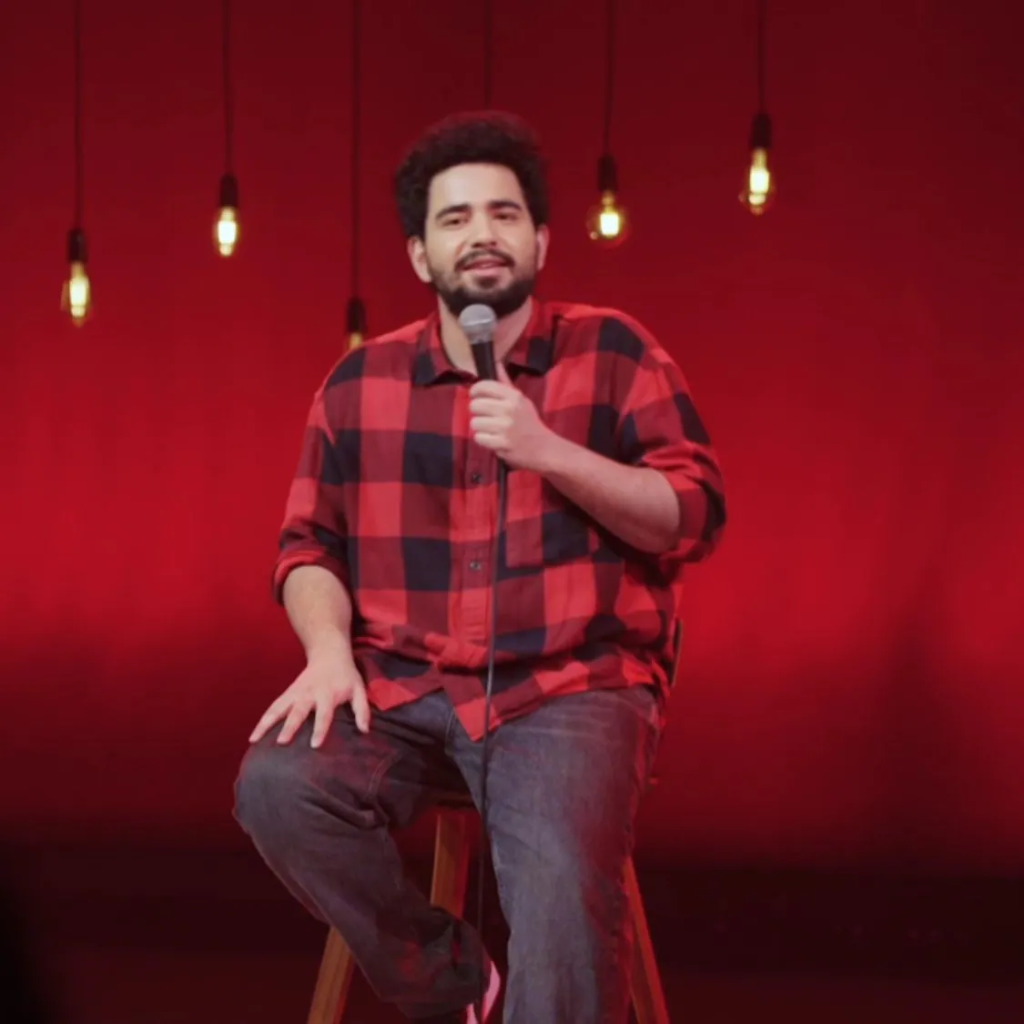
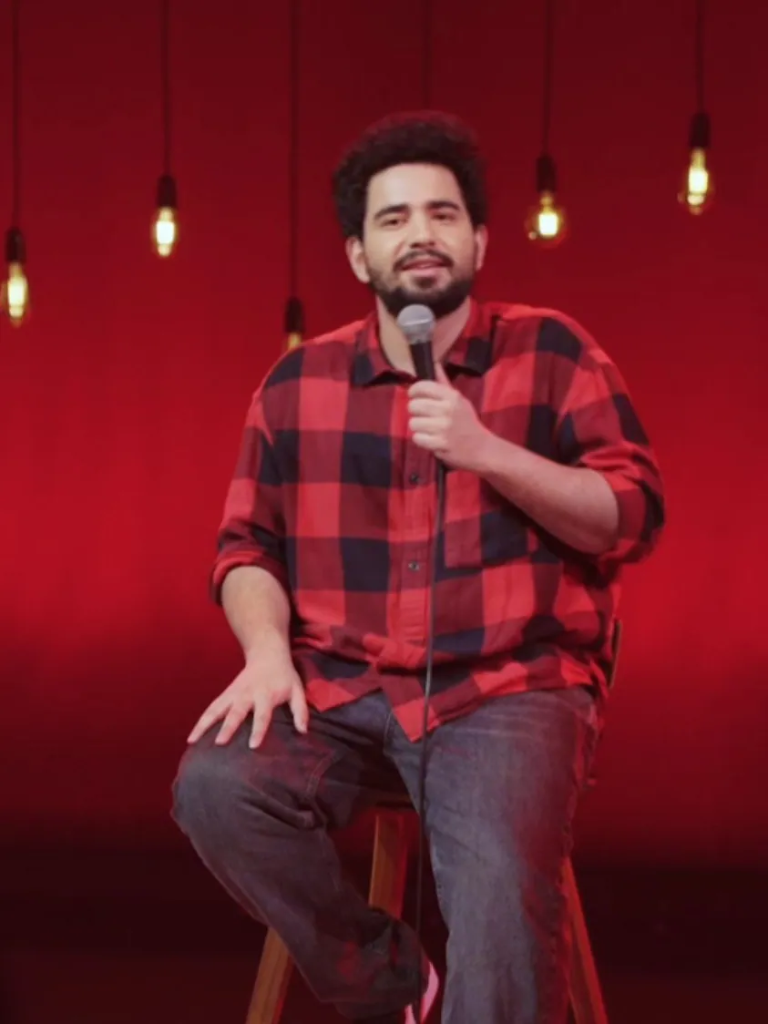
Replace Samay Raina card image with official stage portrait and stylish dark design

diff --git a/smartlink-frontend/src/pages/Login.jsx b/smartlink-frontend/src/pages/Login.jsx
@@ -205,31 +205,31 @@ const Login = () => {
         {/* Center Hero Card: Samay Raina */}
         <div className="my-auto relative z-10 flex justify-center py-6">
           <div className="relative w-full max-w-sm">
-            <div className="bg-[#121620]/90 backdrop-blur-xl rounded-3xl p-6 border border-white/10 shadow-2xl space-y-5 transform transition-transform hover:scale-[1.02]">
+            <div className="bg-[#13161f]/95 backdrop-blur-xl rounded-3xl p-6 border border-[#1e2330] shadow-2xl space-y-5 transform transition-transform hover:scale-[1.02]">
               
-              <div className="relative h-64 rounded-2xl overflow-hidden bg-slate-800">
+              <div className="relative h-72 rounded-2xl overflow-hidden bg-slate-900">
                 <img 
-                  src="https://images.unsplash.com/photo-1534528741775-53994a69daeb?auto=format&fit=crop&w=800&q=80" 
+                  src="/samay_raina_stage.png" 
                   alt="Samay Raina"
-                  className="w-full h-full object-cover object-top"
+                  className="w-full h-full object-cover object-top filter contrast-105 brightness-105"
                 />
-                <div className="absolute inset-0 bg-gradient-to-t from-[#121620] via-transparent to-transparent"></div>
-                <div className="absolute top-3 right-3 px-3 py-1 bg-black/60 backdrop-blur-md rounded-full text-xs font-bold text-white border border-white/20">
+                <div className="absolute inset-0 bg-gradient-to-t from-[#13161f] via-transparent to-transparent opacity-80"></div>
+                <div className="absolute top-3.5 right-3.5 px-3.5 py-1 bg-black/75 backdrop-blur-md rounded-full text-[11px] font-bold text-white border border-white/15 shadow-sm">
                   @SamayRainaOfficial
                 </div>
               </div>
 
               <div className="space-y-1">
-                <h3 className="text-2xl font-black text-white tracking-tight">Samay Raina</h3>
-                <p className="text-xs font-medium text-emerald-400">Chess Enthusiast • Creator of India's Got Latent</p>
+                <h3 className="text-3xl font-extrabold text-white tracking-tight">Samay Raina</h3>
+                <p className="text-xs font-semibold text-[#10b981]">Chess Enthusiast • Creator of India's Got Latent</p>
               </div>
 
-              <div className="pt-2 border-t border-white/10 flex justify-between items-center">
+              <div className="pt-3 border-t border-white/10 flex justify-between items-center">
                 <div>
                   <p className="text-[10px] text-gray-400 uppercase font-bold tracking-wider">LATENT SHOW PASS</p>
-                  <p className="text-lg font-black text-white">₹499</p>
+                  <p className="text-xl font-extrabold text-white">₹499</p>
                 </div>
-                <button className="px-4 py-2 bg-gradient-to-r from-purple-600 to-indigo-600 hover:from-purple-500 hover:to-indigo-500 text-white font-bold text-xs rounded-xl shadow-lg cursor-pointer">
+                <button className="px-6 py-2.5 bg-gradient-to-r from-[#7c3aed] to-[#6366f1] hover:from-[#6d28d9] hover:to-[#4f46e5] text-white font-bold text-xs rounded-full shadow-lg shadow-purple-500/25 transition-all cursor-pointer">
                   Get Pass
                 </button>
               </div>

diff --git a/smartlink-frontend/src/pages/Register.jsx b/smartlink-frontend/src/pages/Register.jsx
@@ -239,31 +239,31 @@ const Register = () => {
         {/* Center Hero Card: Samay Raina */}
         <div className="my-auto relative z-10 flex justify-center py-6">
           <div className="relative w-full max-w-sm">
-            <div className="bg-[#121620]/90 backdrop-blur-xl rounded-3xl p-6 border border-white/10 shadow-2xl space-y-5 transform transition-transform hover:scale-[1.02]">
+            <div className="bg-[#13161f]/95 backdrop-blur-xl rounded-3xl p-6 border border-[#1e2330] shadow-2xl space-y-5 transform transition-transform hover:scale-[1.02]">
               
-              <div className="relative h-64 rounded-2xl overflow-hidden bg-slate-800">
+              <div className="relative h-72 rounded-2xl overflow-hidden bg-slate-900">
                 <img 
-                  src="https://images.unsplash.com/photo-1534528741775-53994a69daeb?auto=format&fit=crop&w=800&q=80" 
+                  src="/samay_raina_stage.png" 
                   alt="Samay Raina"
-                  className="w-full h-full object-cover object-top"
+                  className="w-full h-full object-cover object-top filter contrast-105 brightness-105"
                 />
-                <div className="absolute inset-0 bg-gradient-to-t from-[#121620] via-transparent to-transparent"></div>
-                <div className="absolute top-3 right-3 px-3 py-1 bg-black/60 backdrop-blur-md rounded-full text-xs font-bold text-white border border-white/20">
+                <div className="absolute inset-0 bg-gradient-to-t from-[#13161f] via-transparent to-transparent opacity-80"></div>
+                <div className="absolute top-3.5 right-3.5 px-3.5 py-1 bg-black/75 backdrop-blur-md rounded-full text-[11px] font-bold text-white border border-white/15 shadow-sm">
                   @SamayRainaOfficial
                 </div>
               </div>
 
               <div className="space-y-1">
-                <h3 className="text-2xl font-black text-white tracking-tight">Samay Raina</h3>
-                <p className="text-xs font-medium text-emerald-400">Chess Enthusiast • Creator of India's Got Latent</p>
+                <h3 className="text-3xl font-extrabold text-white tracking-tight">Samay Raina</h3>
+                <p className="text-xs font-semibold text-[#10b981]">Chess Enthusiast • Creator of India's Got Latent</p>
               </div>
 
-              <div className="pt-2 border-t border-white/10 flex justify-between items-center">
+              <div className="pt-3 border-t border-white/10 flex justify-between items-center">
                 <div>
                   <p className="text-[10px] text-gray-400 uppercase font-bold tracking-wider">LATENT SHOW PASS</p>
-                  <p className="text-lg font-black text-white">₹499</p>
+                  <p className="text-xl font-extrabold text-white">₹499</p>
                 </div>
-                <button className="px-4 py-2 bg-gradient-to-r from-purple-600 to-indigo-600 hover:from-purple-500 hover:to-indigo-500 text-white font-bold text-xs rounded-xl shadow-lg cursor-pointer">
+                <button className="px-6 py-2.5 bg-gradient-to-r from-[#7c3aed] to-[#6366f1] hover:from-[#6d28d9] hover:to-[#4f46e5] text-white font-bold text-xs rounded-full shadow-lg shadow-purple-500/25 transition-all cursor-pointer">
                   Get Pass
                 </button>
               </div>